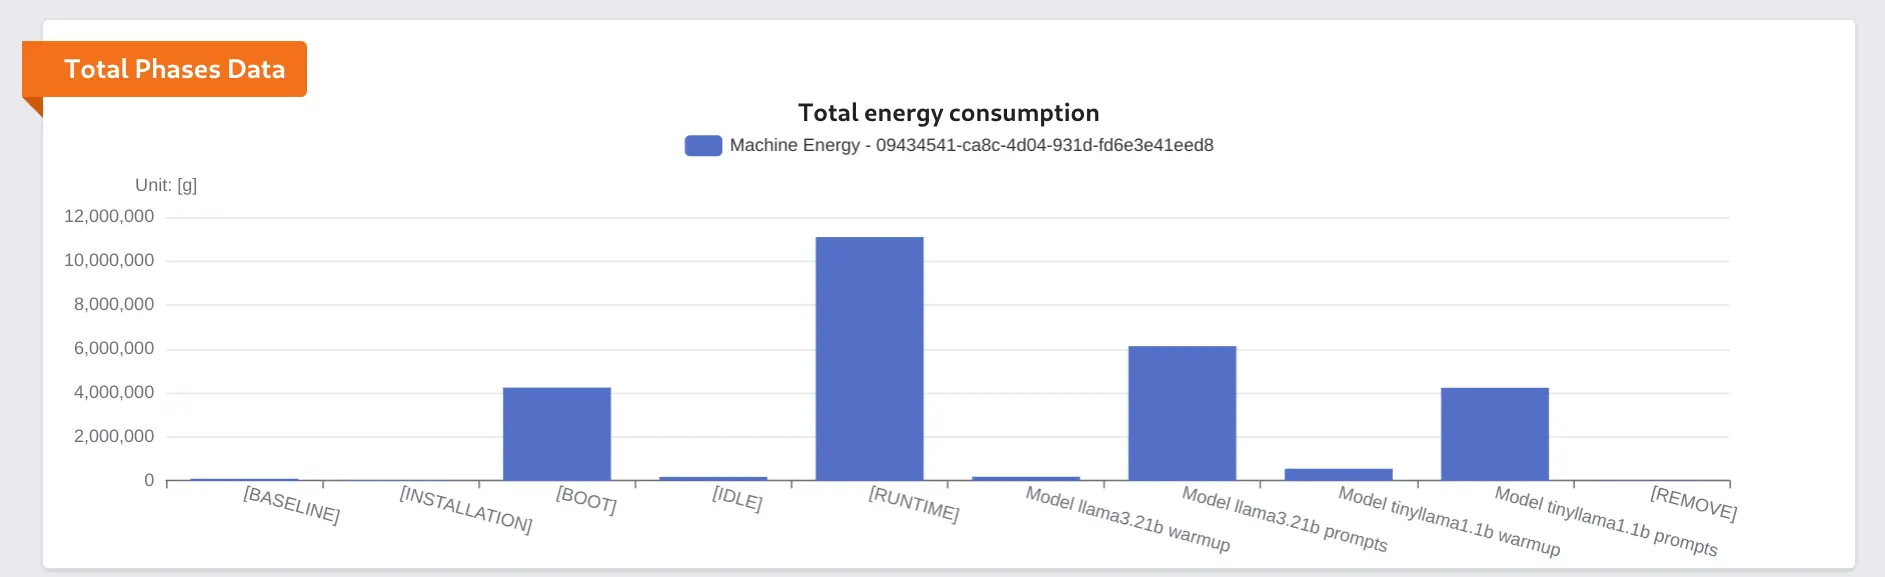
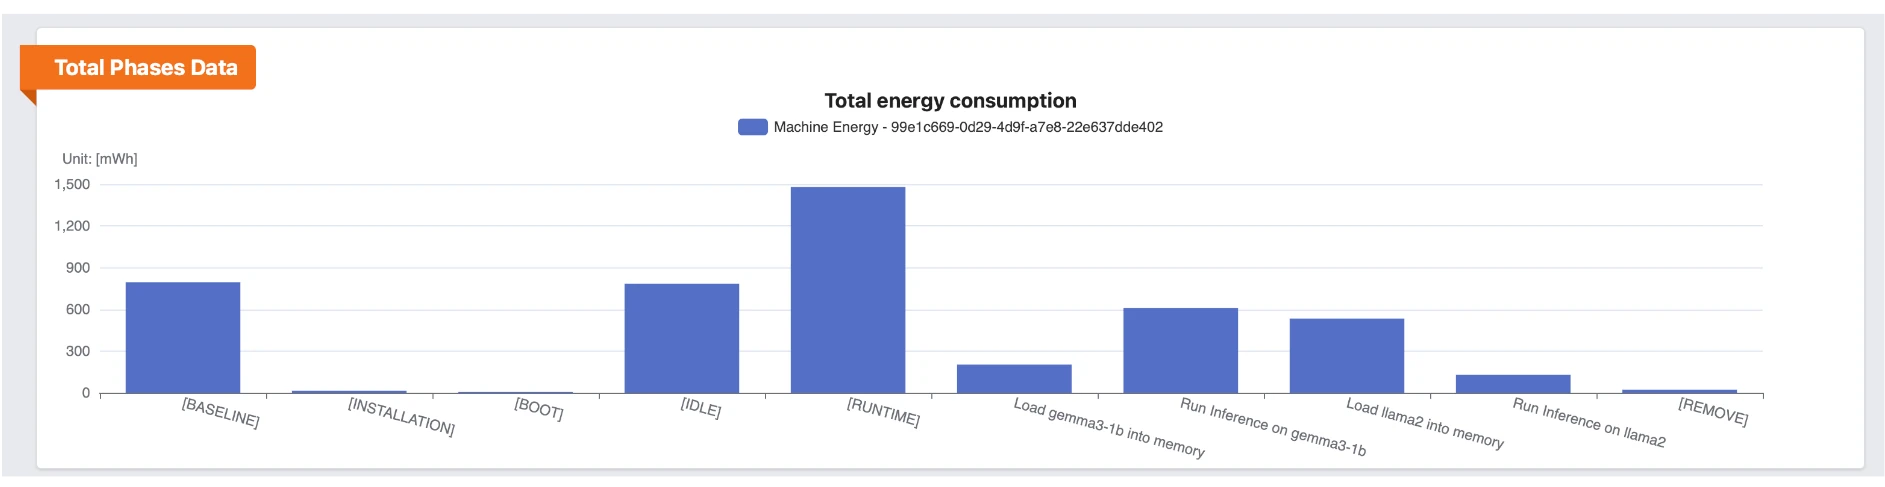
Updated to new example dir

diff --git a/content/blog/measure-ai.md b/content/blog/measure-ai.md
@@ -8,10 +8,9 @@ socialmedia_preview: "/img/blog/social/ai_measure.webp"
 ---
 
 
-The environmental cost of AI is all over the news and people are quite worried. Measuring AI models provides a great opportunity to steer a company’s internal rollout of new AI features in a more sustainable way. With one of our clients, for instance, we collected the 50 most typical queries used in the organization and had three different models process these tasks. We then compared both their effectiveness and their efficiency to uncover which one was not only more accurate but also consumed fewer resources. We also wrote a paper for the [HotCarbon 24](https://hotcarbon.org/2024) workshop in which we measured loads of models and managed to create a system that saves considerable amounts of resources in the inference stage [🖹](https://hotcarbon.org/assets/2024/pdf/hotcarbon24-final109.pdf)In this post, we present a simplified version of that case study, highlighting how innovating sustainably can save on AI interaction time and potentially reduce costs. Below, we’ll walk through the key steps and show how straightforward it can be to start benchmarking AI models for energy consumption.
+The environmental cost of AI is all over the news and people are quite worried. Measuring AI models provides a great opportunity to steer a company’s internal rollout of new AI features in a more sustainable way. With one of our clients, for instance, we collected the 50 most typical queries used in the organization and had three different models process these tasks. We then compared both their effectiveness and their efficiency to uncover which one was not only more accurate but also consumed fewer resources. We also wrote a paper for the [HotCarbon 24](https://hotcarbon.org/2024) [🖹](https://hotcarbon.org/assets/2024/pdf/hotcarbon24-final109.pdf) workshop in which we measured loads of models and managed to create a system that saves considerable amounts of resources in the inference stage In this post, we present a simplified version of that case study, highlighting how innovating sustainably can save on AI interaction time and potentially reduce costs. Below, we’ll walk through the key steps and show how straightforward it can be to start benchmarking AI models for energy consumption.
 
-The Green Metrics Tool is a great tool to do this. This is a quick description on how this can be done. All the code can be found in our examples GitHub repo https://github.com/green-coding-solutions/example-applications/tree/main/ai-bench
-
+The Green Metrics Tool is a great tool to do this. This is a quick description on how this can be done. All the code can be found in our examples GitHub repo https://github.com/green-coding-solutions/example-applications/tree/main/ai-model
 
 For simplicity we use [ollama](https://ollama.com/) which is a great wrapper around loads of different [models](https://ollama.com/search). This enables you to use a simple program to query a model without having to go through the tedious setup if you want to use a model from [huggingface](https://huggingface.co/). The great news is there is also an ollama [docker container](https://hub.docker.com/r/ollama/ollama) which does even more of the heavy lifting for you. So now benchmarking a/ or multiple models becomes really easy.
 
@@ -21,72 +20,63 @@ Now the last thing we need to do is create a `usage_scenario.yml` file that puts
 
 ## Example
 
-For this example I wanted to compare two fairly similar models `llama3.2:1b` and `tinyllama:1.1b` they are both 1 billion parameters but differ in age and focus. Of course you can benchmark as many models as you want with this approach. So your `usage_scenario.yml` might looks something like this
+For this example I wanted to see how much resources gemma3-1b uses. Of course you can benchmark as many models as you want with this approach. So your `usage_scenario.yml` might looks something like this
 
 ```
 ---
-name: AI Bechmark
-author: Didi Hoffmann <didi@green-coding.io>
-description: This is a really  benchmark for multiple AI models
+name: AI model
+author: Arne Tarara <arne@green-coding.io>
+description: Run an inference with a small AI model on the GPU
+
+compose-file: !include compose.yml
 
 services:
-  ollama:
-    image: ollama/ollama:latest
-    setup-commands: ['ollama pull llama3.2:1b','ollama pull tinyllama:1.1b']
+  gcb-ai-model:
+    docker-run-args:
+      - --gpus=all
 
 flow:
-  - name: Model llama3.21b warmup
-    container: ollama
+  - name: Download gemma3-1b
+    container: gcb-ai-model
     commands:
       - type: console
-        command: ollama run llama3.2:1b "Tell me a joke to warm up please."
-  - name: Model llama3.21b prompts
-    container: ollama
+        command: ollama pull gemma3:1b
+        read-notes-stdout: true
+        log-stdout: true
+
+  - name: Load gemma3-1b into memory
+    container: gcb-ai-model
     commands:
       - type: console
-        command: ollama run llama3.2:1b "What is 1 + 1?"
-        note: "What is 1 + 1?"
-  - name: Model tinyllama1.1b warmup
-    container: ollama
+        command: ollama run gemma3:1b ""
+        read-notes-stdout: true
+        log-stdout: true
+
+  - name: Run Inference on gemma3-1b
+    container: gcb-ai-model
     commands:
       - type: console
-        command: ollama run tinyllama:1.1b "Tell me a joke to warm up please."
-  - name: Model tinyllama1.1b prompts
-    container: ollama
-    commands:
-      - type: console
-        command: ollama run tinyllama:1.1b "What is 1 + 1?"
-        note: "What is 1 + 1?"
+        command: ollama run gemma3:1b "Tell me a long joke?"
+        read-notes-stdout: true
+        log-stdout: true
 ```
 
 Some things to note:
 
-- We pull the models in the setup commands as we don't want the network traffic to interfere with out readings. A model shouldn't be punished for slow network connection
+- You will need to supply the `--gpus=all` as a docker run arg so the docker container can access the GPU.
 - We first do a simple warmup prompt. This is because the model needs to be loaded into memory on the first run. So we warm up all the caches before firing away.
 - In this example we only used one prompt to test the models. For a good comparison they obviously need to be the same for each model. Also adding more prompts makes sense.
 - We don't check for correct answers in this case. This is quite hard to do and would be to much for this blog article. Also this is not really the case we are trying to make. There are loads of benchmarks for correctness out there.
 
 And that is pretty much it. Those are the components you will need to benchmark a model or create something so that you can compare `n` models. The results can then be seen in the Green Metrics Tool frontend.
 
+https://metrics.green-coding.io/stats.html?id=99e1c669-0d29-4d9f-a7e8-22e637dde402
+
 {{< image "/img/blog/ai_bench.webp" "massive" "centered" "fluid">}}
-
-You can easily see that tinylama uses considerable less energy for 10 prompts. You can find the prompts in the repo. These are nothing specific but just some standard things you would ask an LLM to do. Nothing to complex though.
-
-## Making even easier
-
-Because writing these files can be quite tedious and the files becomes quite huge I wrote a little helper script that you can download in the [examples repo](https://github.com/green-coding-solutions/example-applications/tree/main/ai-bench) called `./build_usage.py`. With this script you can add the models as parameters you want to benchmark. The models can be found [here](https://ollama.com/library)
-
-```
-./build_usage.py 'llama3.2:1b' 'tinyllama:1.1b'
-```
-
-This will also read the `prompts.txt` and then create the `usage_scenario.yml` file which you can then use for the Green Metrics Tool.
-
-The `prompts.txt` is a simple text file with each line being one prompt. This will be repeated for each model to make a fair comparison.
 
 ## Cluster
 
-You can also our AI Benchmark machine in our cluster which has a state of the art graphics card installed with all the detailed metric providers so you get exact results.
+You can also our AI Benchmark machine in our cluster which has a state of the art graphics card installed with all the detailed metric providers so you get exact results. You can find the documentation here: https://docs.green-coding.io/docs/measuring/measurement-cluster/
 
 ## Next steps
 
